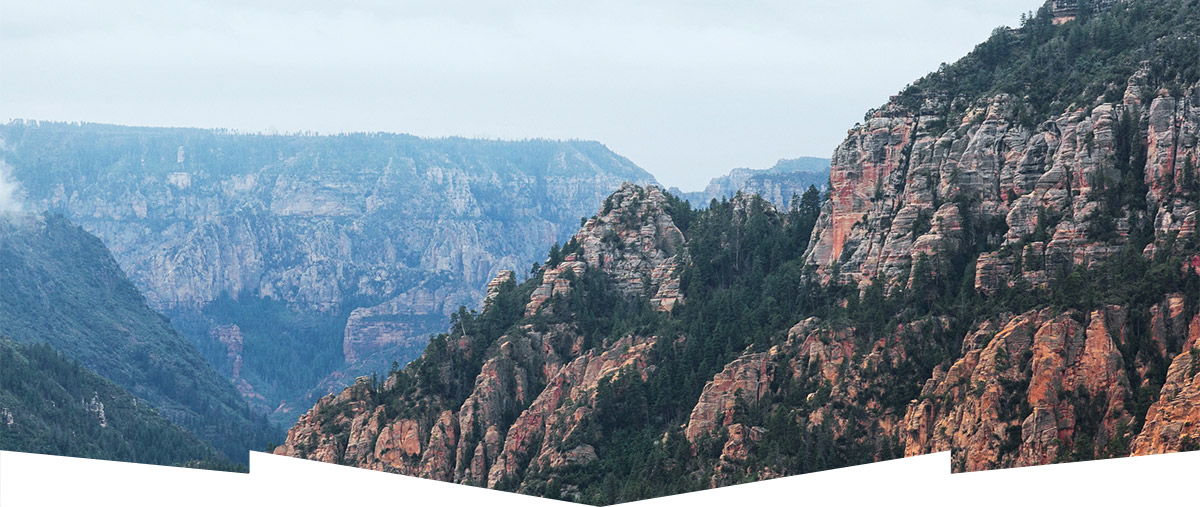
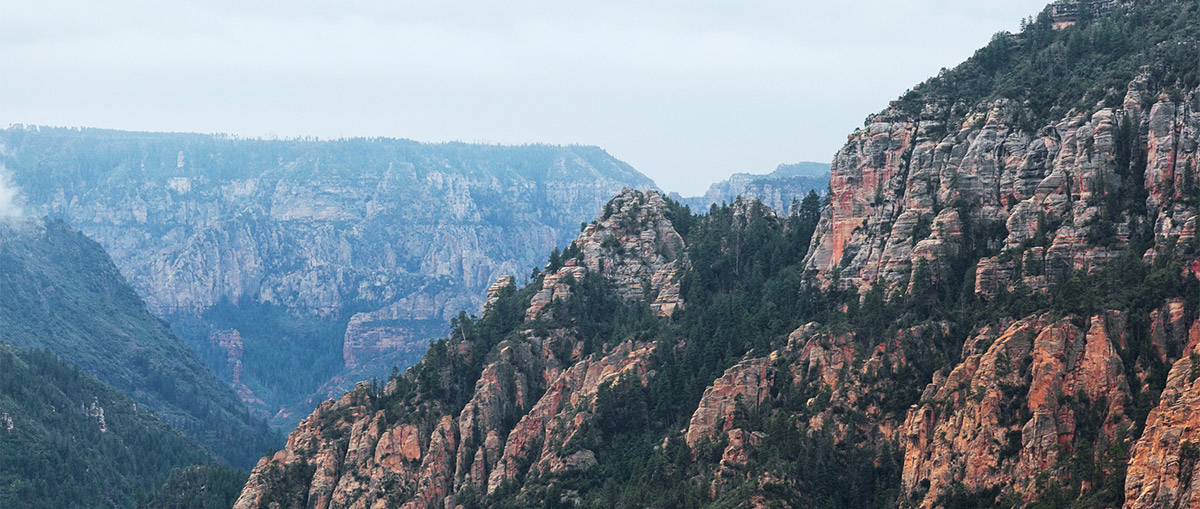
Исправления ошибок

diff --git a/css/style.css b/css/style.css
@@ -84,14 +84,27 @@ header {
   text-decoration: none;
 }
 
-li a:nth-child(4) {
+/*li a:nth-child(4) {
   padding-left: 71px;
+}
+*/
+
+ul.left {
+  float: left;
+  width: 40%;
+}
+
+ul.right {
+  float: right;
+  width: 40%;
 }
 
 a.menu-logo img {
-  position: absolute;
-  left: 0;
-  right: 0;
+  position: relative;
+  padding-left: 50px;
+  top: 15px;
+
+
   margin: -15px auto;
   background-position: center;
 }
@@ -104,7 +117,7 @@ a.menu-logo img {
   line-height: 25px;
   vertical-align: top;
   text-align: center;
-  width: 20%;
+  width: 50%;
 }
 
 .menu-navigator ul {
@@ -146,7 +159,12 @@ img.card-sedona {
   vertical-align: middle;
 }
 
-.card-welcome-sedona {
+img.mask {
+  position: absolute;
+  top: 509px;
+}
+
+.card {
   margin: 0 auto;
   padding: 0px;
   background: url(img/background-1.jpg);
@@ -167,13 +185,13 @@ img.card-sedona {
 
 .about-1 {
   margin: 0 auto;
-  line-height: 23px;
+  line-height: 21px;
 }
 
 
 .about-2 {
   margin: 0 auto;
-  line-height: 23px;
+  line-height: 26px;
   padding-top: 32px;
 }
 
@@ -198,6 +216,7 @@ img.card-sedona {
   min-height: 255px;
   box-sizing: border-box;
   float: left;
+  line-height: 21px;
   text-align: center;
 }
 
@@ -231,12 +250,13 @@ p.city-life {
 .pluses-block-1 {
   width: 400px;
   margin: 0 auto;
-  padding-top: 58px;
+  padding-top: 59px;
   padding-bottom: 68px;
   padding-left: 57px;
   padding-right: 57px;
   box-sizing: border-box;
   float: left;
+  line-height: 21px;
   text-align: center;
 }
 
@@ -274,6 +294,8 @@ p.pluses-p {
   min-height: 255px;
   box-sizing: border-box;
   float: right;
+
+  line-height: 21px;
   text-align: center;
 }
 
@@ -310,6 +332,7 @@ p.rocks-p {
   padding-right: 60px;
   box-sizing: border-box;
   float: left;
+  line-height: 21px;
   text-align: center;
 }
 
@@ -366,8 +389,6 @@ p.rocks-p {
 }
 
 
-
-
 .form-index input {
   font-size: 14px;
   line-height: 21px;
@@ -382,6 +403,7 @@ p.rocks-p {
   background: #766357;
   padding: 32px;
   font-size: 21px;
+  line-height: 26px;
   font-weight: bold;
   text-align: center;
 }
@@ -393,11 +415,12 @@ p.rocks-p {
 
 form.form-index {
   width: 570px;
-  padding: 55px 55px;
+  padding: 48px 55px;
   /*padding-bottom: 25px;*/
   margin: 0px auto;
   background: #fff;
   box-sizing: border-box;
+  line-height: 26px;
 }
 
 
@@ -442,7 +465,7 @@ div.arrive, div.departure {
   border: none;
   width: 285px;
   outline: none;
-  padding-top: 8px;
+  padding-top: 12px;
   padding-bottom: 8px;
   padding-left: 15px;
 }
@@ -456,6 +479,9 @@ div.arrive, div.departure {
   border: 2px solid #f2f2f2;
 }
 
+button {
+  cursor: pointer;
+}
 
 button.arrdep-cal { /*===***КАЛЕНДАРЬ***===*/
   display: block;
@@ -464,6 +490,7 @@ button.arrdep-cal { /*===***КАЛЕНДАРЬ***===*/
   width: 38px;
   margin: 0;
   float: right;
+
   border: 0;
   background-image: url("../img/calendar.png");
   background-position: center;
@@ -623,7 +650,7 @@ input.btn-form:active {
 /*НАЧАЛО секция с КАРТОЙ*/
 iframe {
   margin: 0px auto;
-  height: 472px;
+  height: 595px;
   border: 0px;
   vertical-align: middle;
 }
@@ -643,6 +670,7 @@ main.hotels {
   margin: 0 auto;
   max-height: 215px;
   padding: 0;
+  line-height: 21px;
   background: url("../img/background-2-small.jpg");
   color: #fff;
 }
@@ -878,6 +906,7 @@ input[type="checkbox"]:checked:disabled + label::before {
   width: 165px;
   float: left;
   display: inline-block;
+  line-height: 26px;
 }
 
 .search-sorting {
@@ -885,12 +914,15 @@ input[type="checkbox"]:checked:disabled + label::before {
   display: inline-block;
   font-size: 12px;
   line-height: 18px;
+  padding-top: 5px;
 }
 
 .search-left-size {
   float: left;
-  padding: 17px 70px;
-  padding-bottom: 32px;
+  padding-left: 70px;
+  padding-right: 70px;
+  padding-top: 15px;
+  padding-bottom: 30px;
   background: #fff;
 }
 
@@ -994,7 +1026,8 @@ a.menu-active-down {
 .found-1 {
   margin: 0px;
   border-top: 2px solid #f2f2f2;
-  padding: 25px 73px;
+  padding: 22px 71px;
+  padding-bottom: 28px;
   background: #fff;
   box-sizing: border-box;
 }
@@ -1017,6 +1050,7 @@ a.menu-active-down {
   width: 370px;
   margin: 0px;
   padding: 0px;
+  padding-top: 3px;
   float: left;
 }
 
@@ -1151,20 +1185,22 @@ a.found-button-book:active {
   width: 110px;
   float: right;
   margin: 0;
-  /*padding: 30px 73px;*/
+  padding-right: 3px;
 }
 
 .rating-stars {
   float: right;
   padding-bottom: 45px;
+  padding-top: 5px;
 }
 
 .rating-number {
   width: 110px;
   background: #f2f2f2;
   float: right;
-  padding-top: 2px;
+  /*padding-top: 2px;*/
   padding-bottom: 2px;
+  line-height: 21px;
 }
 
 .rating-number p {
@@ -1179,17 +1215,20 @@ a.found-button-book:active {
 
 /*НАЧАЛО секция с ФУТЕРОМ*/
 footer {
+  position: absolute;
+  right: 0;
+  left: 0;
   background: #fff;
   border-top: 2px solid #f2f2f2;
   margin: 0px auto;
-  padding-top: 21px;
+  padding-top: 17px;
   padding-bottom: 30px;
 }
 
 .link-first {
   padding-top: 25px;
   float: left;
-  width: 400px;
+  width: 398px;
   margin: 0px auto;
   text-align: center;
 }
@@ -1207,6 +1246,7 @@ footer {
   width: 398px;
   margin: 0px auto;
   padding-top: 18px;
+  line-height: 26px;
   text-align: center;
 }
 
@@ -1274,8 +1314,8 @@ div.html-academy {
   font-size: 14px;
   color: black;
   margin: 0 auto;
-  padding-left: 42px;
-  padding-top: 10px;
+  padding-left: 41px;
+  padding-top: 7px;
   text-decoration: none;
   text-align: center;
   float: left;

diff --git a/index.html b/index.html
@@ -14,21 +14,22 @@
   <div class="shadow"><!--==========******БЛОК - ТЕНЬ ВОКРУГ СТРАНИЦЫ******==========-->
     <header class="container">
       <nav class="menu-navigator container clearfix"><!--==========******БЛОК - МЕНЮ-НАВИГАЦИЯ******==========-->
-        <ul>
+        <ul class="left">
           <li><a class="menu-active" href="#">Информация</a></li>
           <li><a href="#">Фото и видео</a></li>
-          <li><a class="menu-logo" href="index.html"><img src="img/logo.png" alt=""></a></li>
-          <li class="menu-maps"><a href="#">Карта штата</a></li>
-          <li><a href="hotels.html">Гостиницы</a></li>
+        </ul>
+          <a class="menu-logo" href="index.html"><img src="img/logo.png" alt=""></a>
+        <ul class="right">
+          <li class="menu-maps left"><a href="#">Карта штата</a></li>
+          <li  class="right"><a href="hotels.html">Гостиницы</a></li>
         </ul>
       </nav>
     </header>
     <main class="container">
       <div class="card"><!--======***БЛОК С ФОТОГРАФИЕЙ Welcome***======-->
-        <figure class="card-welcome-sedona">
-          <img class="card-welcome" src="img/welcome-text.png" alt="Welcome">
-          <img class="card-sedona" src="img/background-1.jpg" alt="Welcome">
-        </figure>
+        <img class="mask" src="img/mask-white.png" alt="Welcome">
+        <img class="card-welcome" src="img/welcome-text.png" alt="Welcome">
+        <img class="card-sedona" src="img/background-1.jpg" alt="Welcome">
       </div>
       <section class="about container"><!--======***БЛОК С ОПИСАНИЕМ СЕДОНЫ***======-->
         <div class="align">

diff --git a/hotels.html b/hotels.html
@@ -12,13 +12,15 @@
   <body>
     <header class="container">
       <nav class="menu-navigator container clearfix"><!--==========******БЛОК - МЕНЮ-НАВИГАЦИЯ******==========-->
-      <ul>
-        <li><a class="active-page" href="#">Информация</a></li>
-        <li><a href="#">Фото и видео</a></li>
-        <li><a class="menu-logo" href="index.html"><img src="img/logo.png" alt=""></a></li><!--добавить картинку логотипа menu-logo.png-->
-        <li class="menu-maps"><a href="#">Карта штата</a></li>
-        <li class="menu-hotels"><a href="hotels.html" class="menu-active">Гостиницы</a></li>
-      </ul>
+        <ul class="left">
+          <li><a class="menu-active" href="#">Информация</a></li>
+          <li><a href="#">Фото и видео</a></li>
+        </ul>
+          <a class="menu-logo" href="index.html"><img src="img/logo.png" alt=""></a>
+        <ul class="right">
+          <li class="menu-maps left"><a href="#">Карта штата</a></li>
+          <li  class="right"><a href="hotels.html">Гостиницы</a></li>
+        </ul>
     </nav>
     </header>
     <main class="hotels container">
@@ -77,7 +79,7 @@
               <div class="range-toggle range-toggle-max"></div>
             </div>
             <div class="btn-range">
-             <button class="btn-transparent" type="submit">Показать</button>
+             <button class="btn-transparent" type="submit" formaction="https://echo.htmlacademy.ru">Показать</button>
             </div><!--==========******КОНЕЦ БЛОК - ПОЛЗУНКИ СПРАВА******==========-->
           </div>
         </form>
